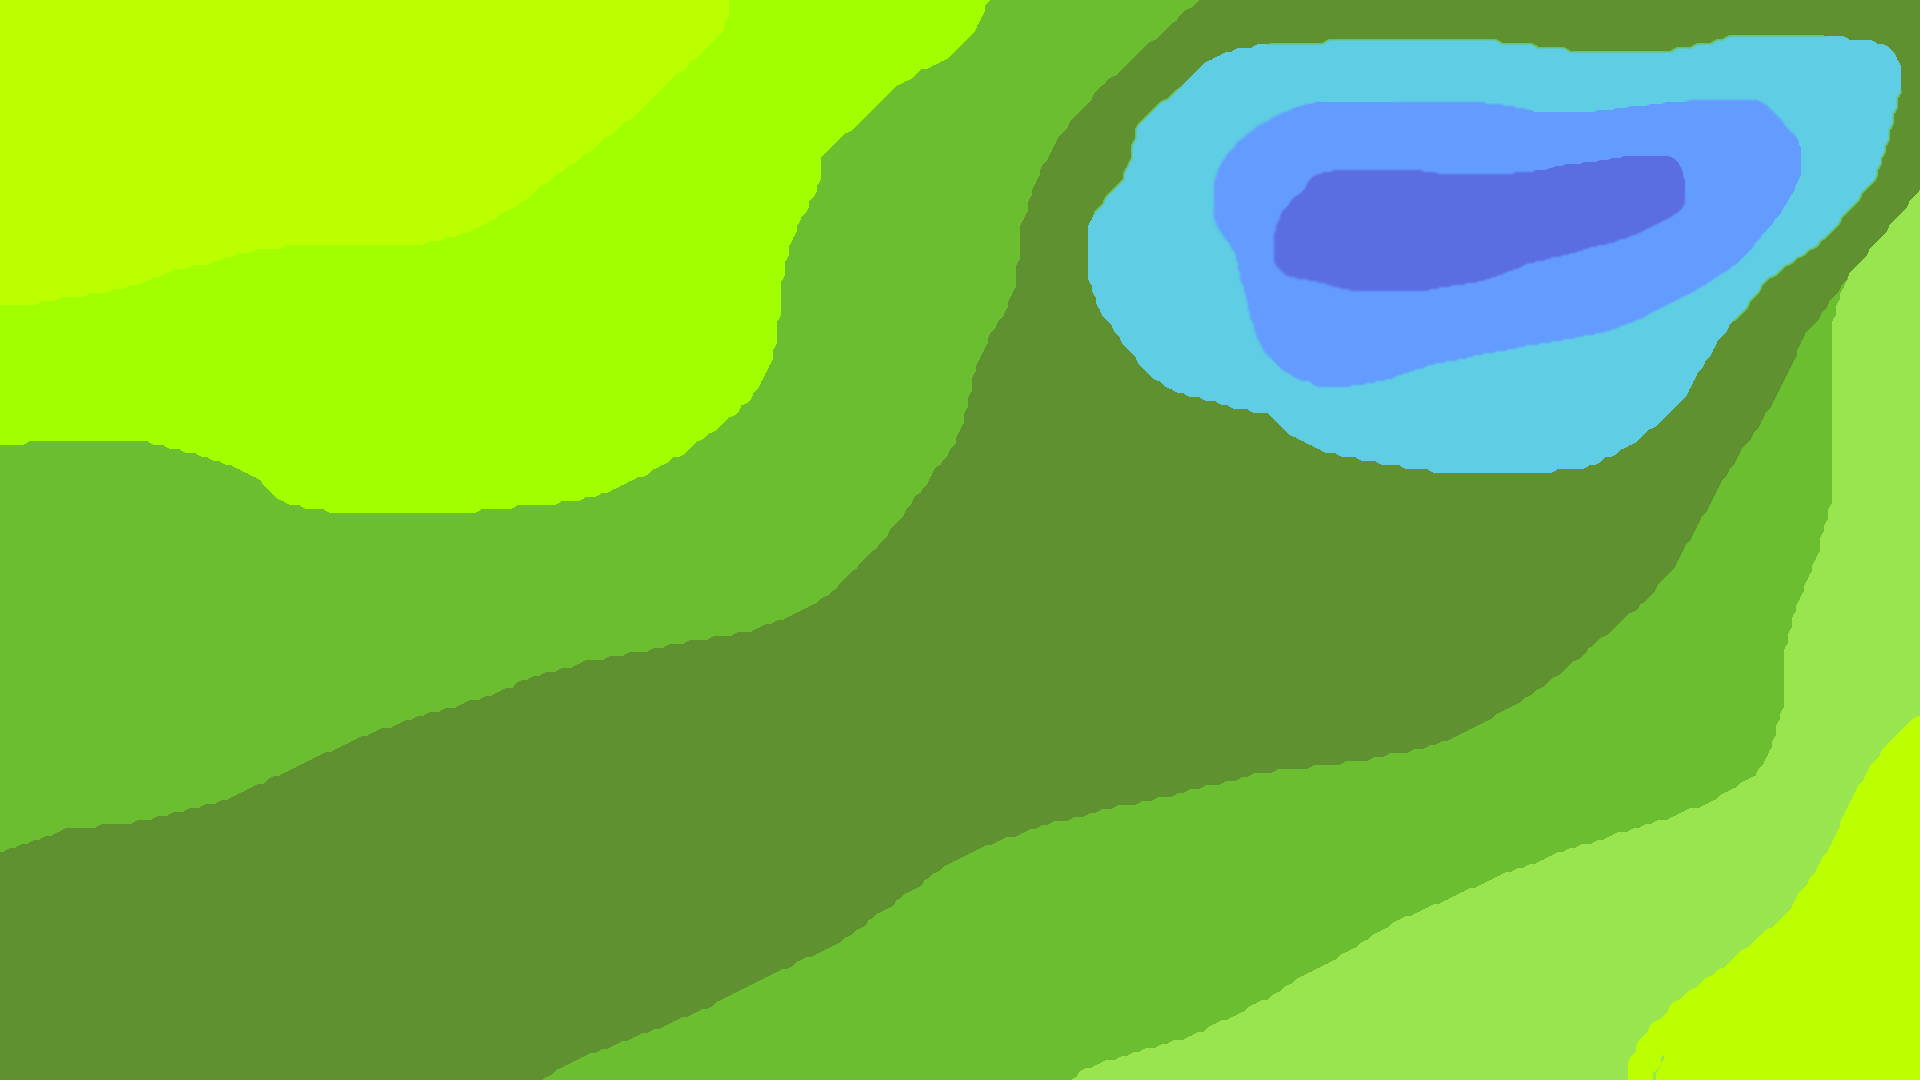
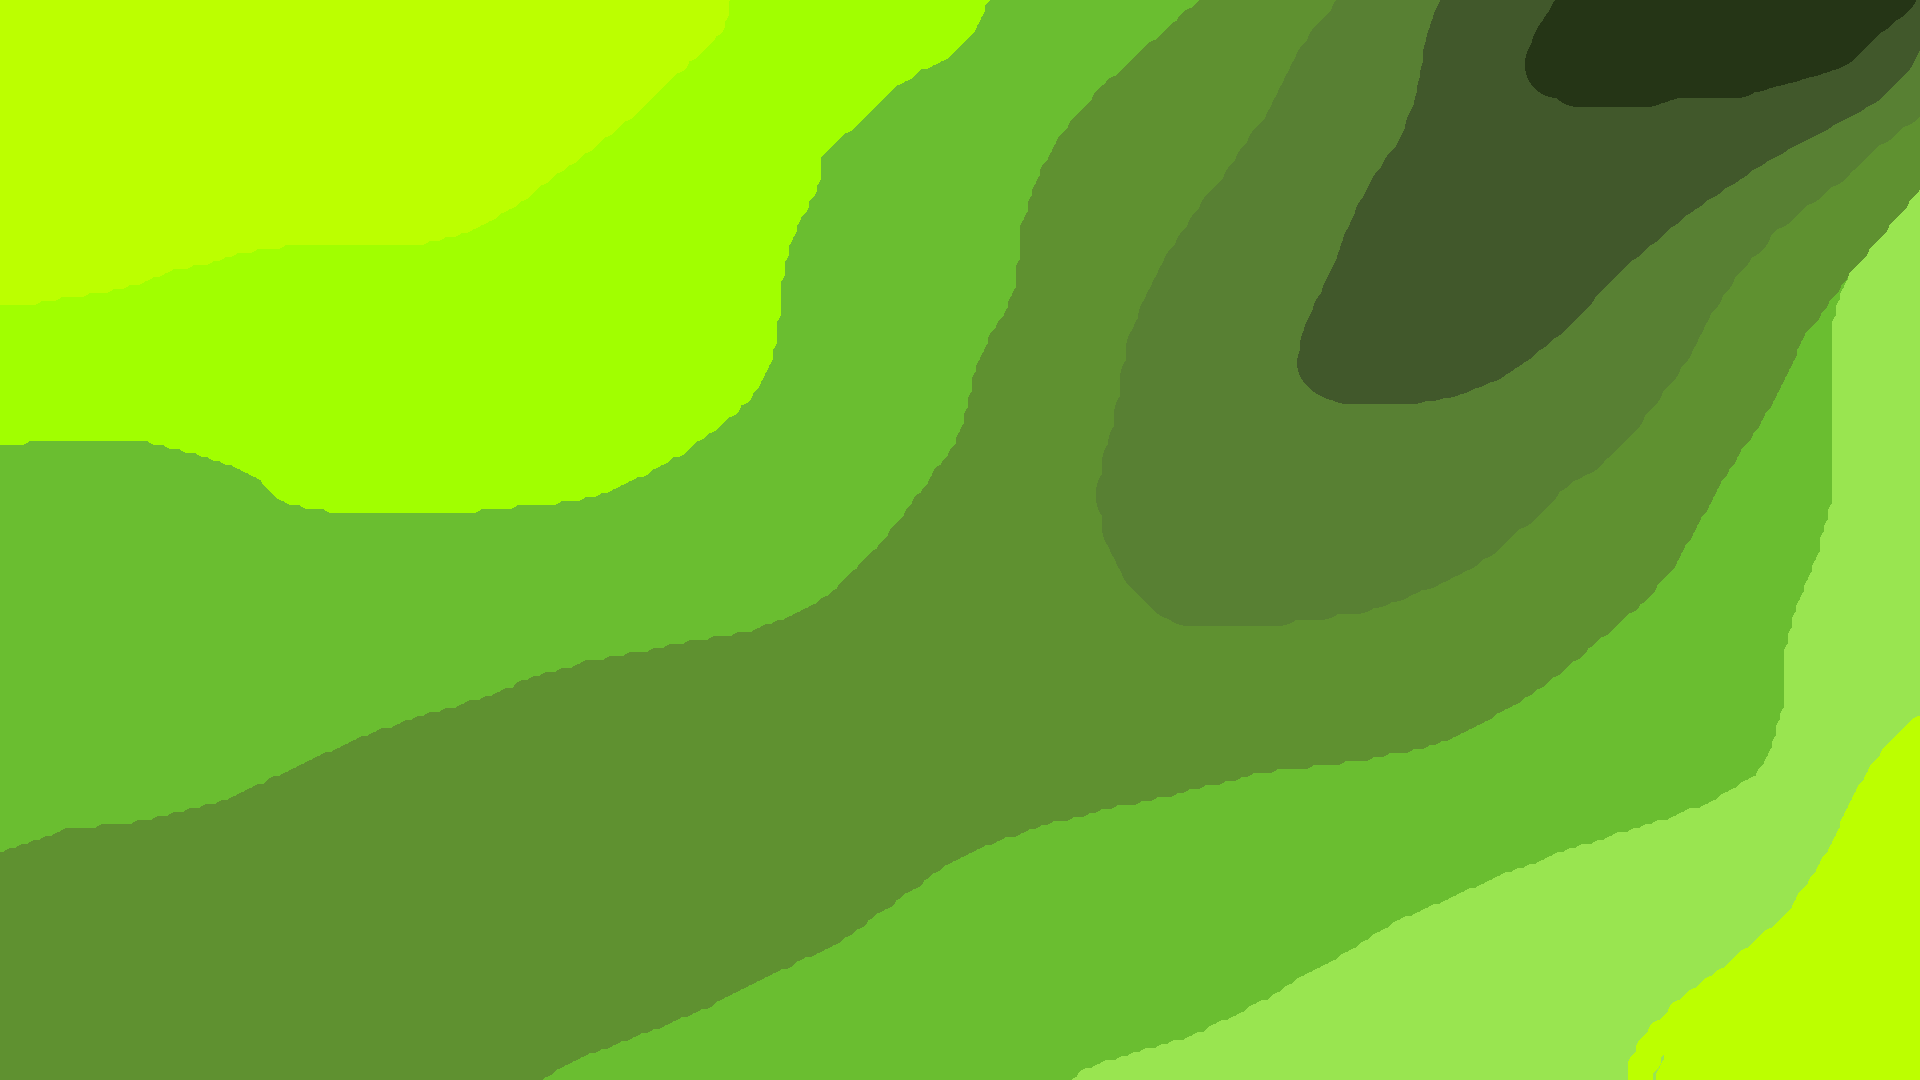
Added Spots + Changed BG

Changed region(s): [[0.5625, 0.0, 1.0, 0.4583]]

diff --git a/Server/src/components/spots.h b/Server/src/components/spots.h
@@ -28,7 +28,7 @@ struct StartingSpot : public BasicSpot
 
 struct FinalSpot : public BasicSpot
 {
-    FinalSpot(int x,int y) : BasicSpot(x,y,"FINAL") {}
+    FinalSpot(int x,int y) : BasicSpot(x,y,"END") {}
 
     virtual void onPlayerStandOn(class Player* p) override {
         cout << "BASIC SPOT" << endl;
@@ -73,18 +73,28 @@ vector<BasicSpot*> createSpots(){
     S = new EmptySpot(x,y);
     Spots.push_back(S);
 
-    x += 24;
-    y += 80;
-    S = new EmptySpot(x,y);
-    Spots.push_back(S);
-
-    x += 32;
-    y += 68;
+    x += 80;
+    y += 0;
     S = new EmptySpot(x,y);
     Spots.push_back(S);
 
     x += 80;
-    y += 40;
+    y += 0;
+    S = new EmptySpot(x,y);
+    Spots.push_back(S);
+
+    x += 45;
+    y += 88;
+    S = new EmptySpot(x,y);
+    Spots.push_back(S);
+
+    x += 15;
+    y += 90;
+    S = new EmptySpot(x,y);
+    Spots.push_back(S);
+
+    x += 32;
+    y += 90;
     S = new EmptySpot(x,y);
     Spots.push_back(S);
 
@@ -93,18 +103,8 @@ vector<BasicSpot*> createSpots(){
     S = new EmptySpot(x,y);
     Spots.push_back(S);
 
-    x += 75;
-    y += 15;
-    S = new EmptySpot(x,y);
-    Spots.push_back(S);
-
-    x += 75;
-    y += -30;
-    S = new EmptySpot(x,y);
-    Spots.push_back(S);
-
-    x += 65;
-    y += -65;
+    x += 72;
+    y += -32;
     S = new EmptySpot(x,y);
     Spots.push_back(S);
 
@@ -123,8 +123,8 @@ vector<BasicSpot*> createSpots(){
     S = new EmptySpot(x,y);
     Spots.push_back(S);
 
-    x += -128;
-    y += -24;
+    x += -15;
+    y += -90;
     S = new EmptySpot(x,y);
     Spots.push_back(S);
 
@@ -133,13 +133,23 @@ vector<BasicSpot*> createSpots(){
     S = new EmptySpot(x,y);
     Spots.push_back(S);
 
-    x += 45;
-    y += -85;
+    x += 32;
+    y += -75;
     S = new EmptySpot(x,y);
     Spots.push_back(S);
 
     x += 80;
-    y += 12;
+    y += -30;
+    S = new EmptySpot(x,y);
+    Spots.push_back(S);
+
+    x += 80;
+    y += -15;
+    S = new EmptySpot(x,y);
+    Spots.push_back(S);
+
+    x += 80;
+    y += 0;
     S = new EmptySpot(x,y);
     Spots.push_back(S);
 
@@ -149,18 +159,68 @@ vector<BasicSpot*> createSpots(){
     Spots.push_back(S);
 
     x += 80;
-    y += 18;
+    y += 32;
     S = new EmptySpot(x,y);
     Spots.push_back(S);
 
-    x += 60;
-    y += 24;
+    x += 90;
+    y += 16;
     S = new EmptySpot(x,y);
     Spots.push_back(S);
 
-    x += 70;
+    x += 0;
+    y += 90;
+    S = new EmptySpot(x,y);
+    Spots.push_back(S);
+
+    x += 0;
+    y += 90;
+    S = new EmptySpot(x,y);
+    Spots.push_back(S);
+
+    x += -90;
+    y += 8;
+    S = new EmptySpot(x,y);
+    Spots.push_back(S);
+
+    x += -68;
+    y += 68;
+    S = new EmptySpot(x,y);
+    Spots.push_back(S);
+
+    x += -68;
+    y += 68;
+    S = new EmptySpot(x,y);
+    Spots.push_back(S);
+
+    x += -15;
+    y += 90;
+    S = new EmptySpot(x,y);
+    Spots.push_back(S);
+
+    x += 15;
+    y += 90;
+    S = new EmptySpot(x,y);
+    Spots.push_back(S);
+
+    x += 90;
     y += 15;
     S = new EmptySpot(x,y);
+    Spots.push_back(S);
+
+    x += 32;
+    y += -80;
+    S = new EmptySpot(x,y);
+    Spots.push_back(S);
+
+    x += 15;
+    y += -80;
+    S = new EmptySpot(x,y);
+    Spots.push_back(S);
+
+    x += 75;
+    y += 0;
+    S = new FinalSpot(x,y);
     Spots.push_back(S);
 
     return Spots;

diff --git a/Client/src/components/game.h b/Client/src/components/game.h
@@ -32,6 +32,7 @@ Font currentFont;
 string myName;
 bool startGame = false;
 RectangleShape PlayerList(Vector2f(400,80*6));
+RectangleShape Interact(Vector2f(600,720));
 
 RectangleShape gameBG;
 Texture gameBGT;
@@ -123,7 +124,11 @@ void CreatePlayerSprites(RenderWindow* w){
     int xs = (allPlayers.player1c.getLocalBounds().width/2);
     int ys = (allPlayers.player1c.getLocalBounds().height);
 
-    PlayerList.setSize(Vector2f(250,ys*GetPlayerCount(allPlayers)));
+    //PlayerList.setSize(Vector2f(250,ys*GetPlayerCount(allPlayers)));
+    PlayerList.setSize(Vector2f(250,ys*6));
+
+    Interact.setPosition(1280-(Interact.getLocalBounds().width/2),0);
+    Interact.setFillColor(Color(80,80,80,255));
 
     createPlayerTextObjs(allPlayers);
 
@@ -187,6 +192,7 @@ void GameUpdateFrame(RenderWindow* window){
     DisplaySpots(window);
 
     //UI
+    window->draw(Interact);
     window->draw(PlayerList);
     DisplayPlayerIcons(allPlayers,window);
     DisplayPlayersText(allPlayers,window);
